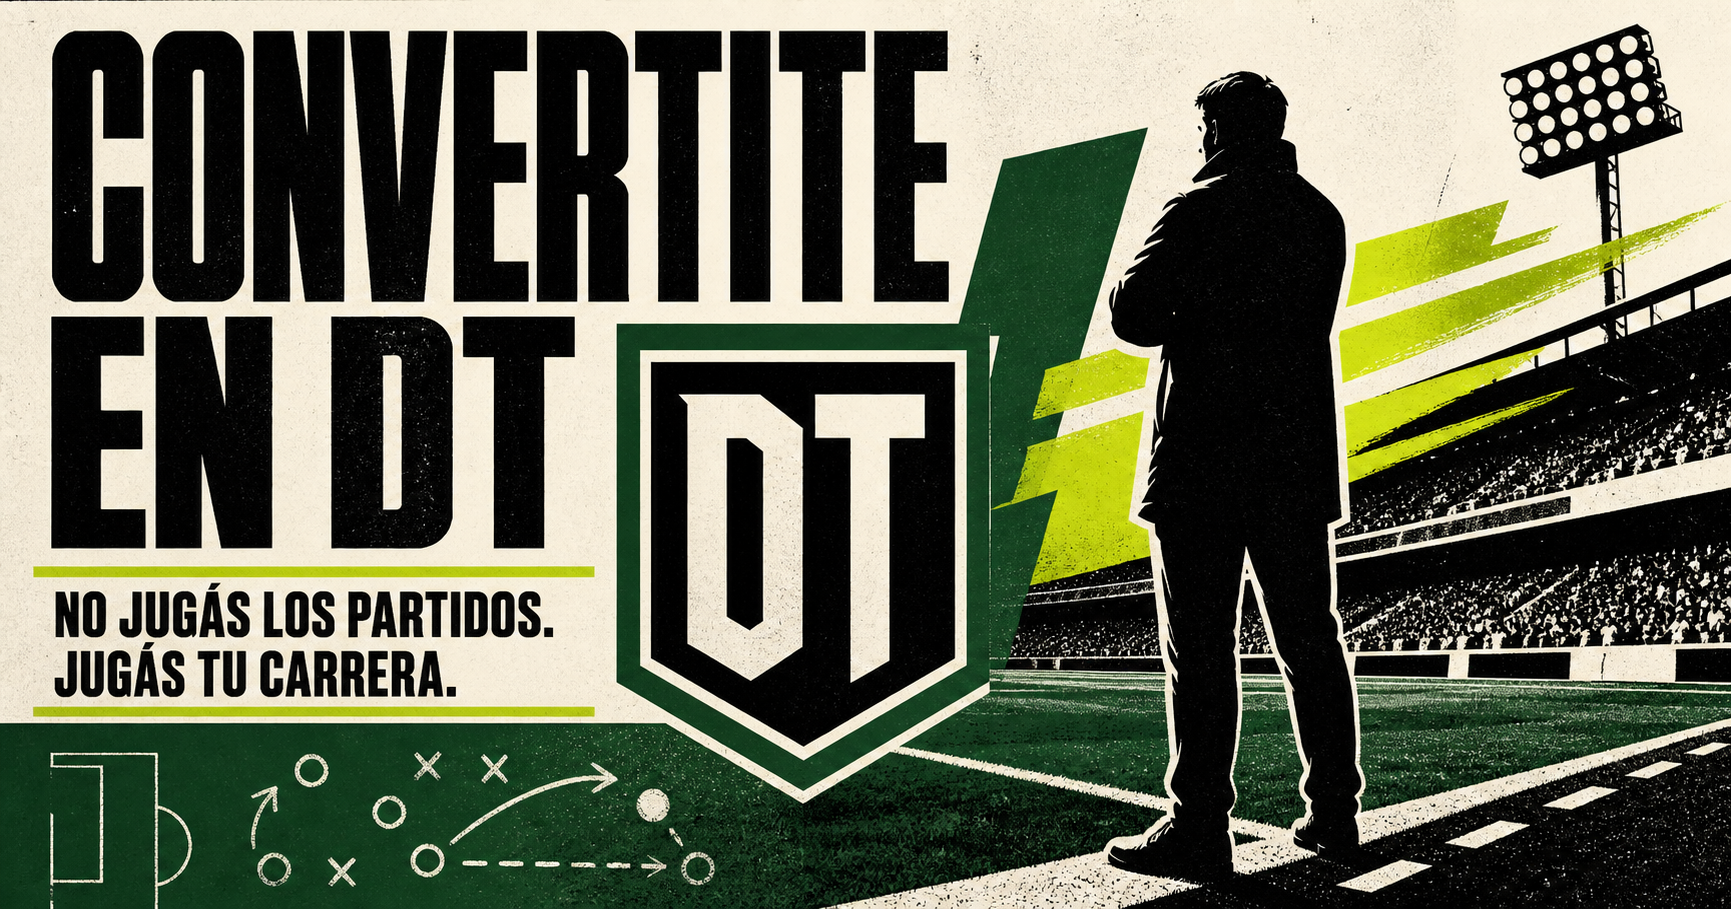
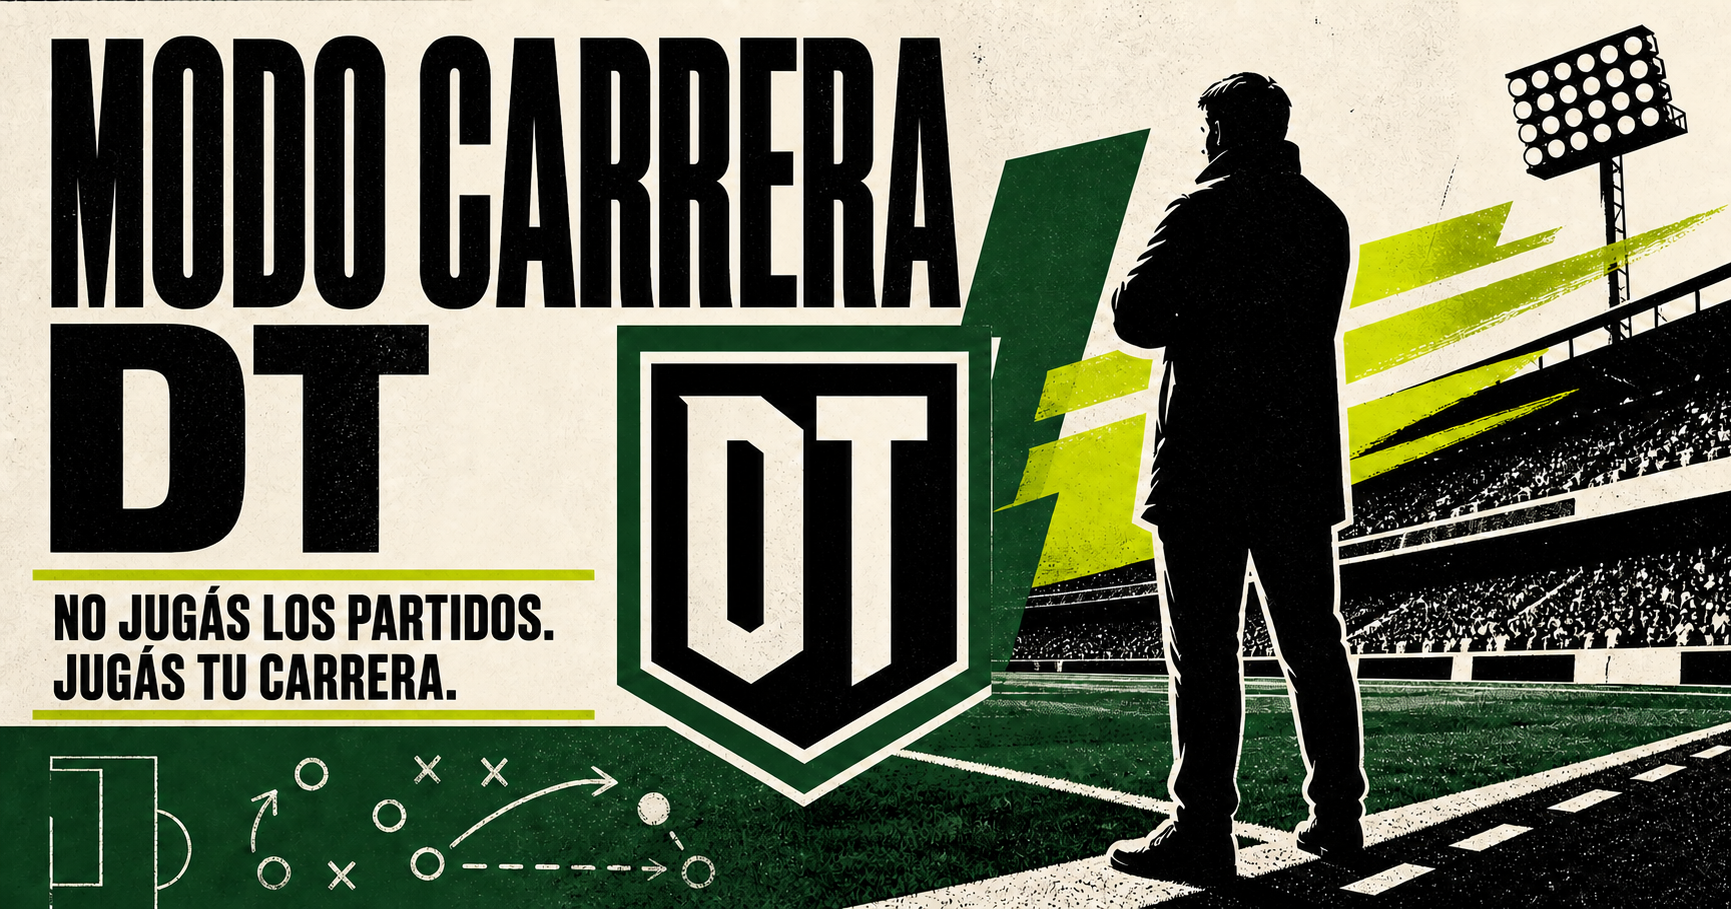
Rename game to Modo Carrera DT

diff --git a/src/ui/GameApp.tsx b/src/ui/GameApp.tsx
@@ -27,7 +27,7 @@ const trophyImage = (name: string) => name.includes("Libertadores") ? "/trophies
 
 function Brand({ state }: { state: CareerState | null }) {
   const stats = careerStats(state);
-  return <header className="brand"><div className="brand-mark">DT</div><div className="brand-copy"><span>UNA CARRERA. MIL HISTORIAS.</span><strong>CONVERTITE EN DT</strong></div>{state && <div className="career-summary" aria-label="Estadísticas totales de carrera"><div><span>PJ</span><strong>{stats.played}</strong></div><div><span>G</span><strong>{stats.won}</strong></div><div><span>E</span><strong>{stats.drawn}</strong></div><div><span>P</span><strong>{stats.lost}</strong></div><div><span>EFECT.</span><strong>{stats.effectiveness}%</strong></div><div className="header-trophies"><img src="/trophies/liga-profesional.png" alt="Trofeos ganados" /><span>TROFEOS</span><strong>{state.trophies}</strong></div></div>}</header>;
+  return <header className="brand"><div className="brand-mark">DT</div><div className="brand-copy"><span>UNA CARRERA. MIL HISTORIAS.</span><strong>MODO CARRERA DT</strong></div>{state && <div className="career-summary" aria-label="Estadísticas totales de carrera"><div><span>PJ</span><strong>{stats.played}</strong></div><div><span>G</span><strong>{stats.won}</strong></div><div><span>E</span><strong>{stats.drawn}</strong></div><div><span>P</span><strong>{stats.lost}</strong></div><div><span>EFECT.</span><strong>{stats.effectiveness}%</strong></div><div className="header-trophies"><img src="/trophies/liga-profesional.png" alt="Trofeos ganados" /><span>TROFEOS</span><strong>{state.trophies}</strong></div></div>}</header>;
 }
 
 function FormDot({ result }: { result: "W" | "D" | "L" }) {
@@ -202,7 +202,7 @@ export function GameApp() {
       {screen === "retire" && state && <section className="retire-view"><p className="eyebrow">DECISIÓN IRREVERSIBLE</p><h2>¿ES EL MOMENTO<br />DE PARAR?</h2><p>Podés retirarte voluntariamente en cualquier temporada. Tu historial, títulos, ascensos e idolatría quedarán como balance definitivo.</p><div className="retire-facts"><div><span>EDAD</span><strong>{state.manager.age}</strong></div><div><span>TEMPORADAS</span><strong>{state.history.length}</strong></div><div><span>TÍTULOS</span><strong>{state.trophies}</strong></div></div><button className="primary" onClick={() => completeCareer("retirement")}>CONFIRMAR RETIRO <span>→</span></button><button className="text-button" onClick={() => setScreen(state.season ? state.season.tacticsConfirmed ? "season" : "report" : "offers")}>Todavía no. Seguir dirigiendo.</button></section>}
 
       {screen === "ending" && state?.ending && <section className={`ending-view ${state.ending.reason}`}><p className="eyebrow">FINAL DE CARRERA · {state.ending.year}</p><h1>{state.ending.title}</h1><p>{state.ending.description}</p><div className="ending-record"><div><span>EDAD FINAL</span><strong>{state.ending.age}</strong></div><div><span>TEMPORADAS</span><strong>{state.history.length}</strong></div><div><span>TÍTULOS</span><strong>{state.trophies}</strong></div><div><span>ASCENSOS</span><strong>{state.promotions}</strong></div></div><blockquote>“{state.manager.name}: una carrera que empezó sin nombre y terminó dejando una historia propia.”</blockquote><button className="primary light" onClick={restart}>EMPEZAR OTRA HISTORIA <span>→</span></button></section>}
-      <footer><span>CONVERTITE EN DT · LOS PARTIDOS OCURREN. VOS APARECÉS CUANDO IMPORTA.</span><span className="image-credits">Trofeos: <a href="https://commons.wikimedia.org/wiki/File:LigaProfesionalArg.png">Liga (CC0)</a> · <a href="https://commons.wikimedia.org/wiki/File:Trof%C3%A9u_da_Copa_da_Argentina.png">Copa Argentina (Taf0723, CC BY-SA 4.0)</a> · <a href="https://commons.wikimedia.org/wiki/File:328-3287452_copa-libertadores-primer-trofeo-hd-png-download.png">Libertadores (Mathiaseditorxd, CC BY-SA 4.0)</a></span></footer>
+      <footer><span>MODO CARRERA DT · LOS PARTIDOS OCURREN. VOS APARECÉS CUANDO IMPORTA.</span><span className="image-credits">Trofeos: <a href="https://commons.wikimedia.org/wiki/File:LigaProfesionalArg.png">Liga (CC0)</a> · <a href="https://commons.wikimedia.org/wiki/File:Trof%C3%A9u_da_Copa_da_Argentina.png">Copa Argentina (Taf0723, CC BY-SA 4.0)</a> · <a href="https://commons.wikimedia.org/wiki/File:328-3287452_copa-libertadores-primer-trofeo-hd-png-download.png">Libertadores (Mathiaseditorxd, CC BY-SA 4.0)</a></span></footer>
     </main>
   );
 }

diff --git a/app/layout.tsx b/app/layout.tsx
@@ -2,18 +2,18 @@ import type { Metadata } from "next";
 import "./globals.css";
 
 export const metadata: Metadata = {
-  title: "Convertite en DT — Tu historia empieza abajo",
+  title: "Modo Carrera DT — Tu historia empieza abajo",
   description: "Un simulador narrativo rápido de la carrera de un director técnico argentino.",
   icons: { icon: "/favicon.svg", shortcut: "/favicon.svg" },
   openGraph: {
-    title: "Convertite en DT",
+    title: "Modo Carrera DT",
     description: "No jugás los partidos. Jugás tu carrera.",
     type: "website",
-    images: [{ url: "/og.png", width: 1733, height: 909, alt: "Convertite en DT — No jugás los partidos. Jugás tu carrera." }],
+    images: [{ url: "/og.png", width: 1733, height: 909, alt: "Modo Carrera DT — No jugás los partidos. Jugás tu carrera." }],
   },
   twitter: {
     card: "summary_large_image",
-    title: "Convertite en DT",
+    title: "Modo Carrera DT",
     description: "No jugás los partidos. Jugás tu carrera.",
     images: ["/og.png"],
   },
